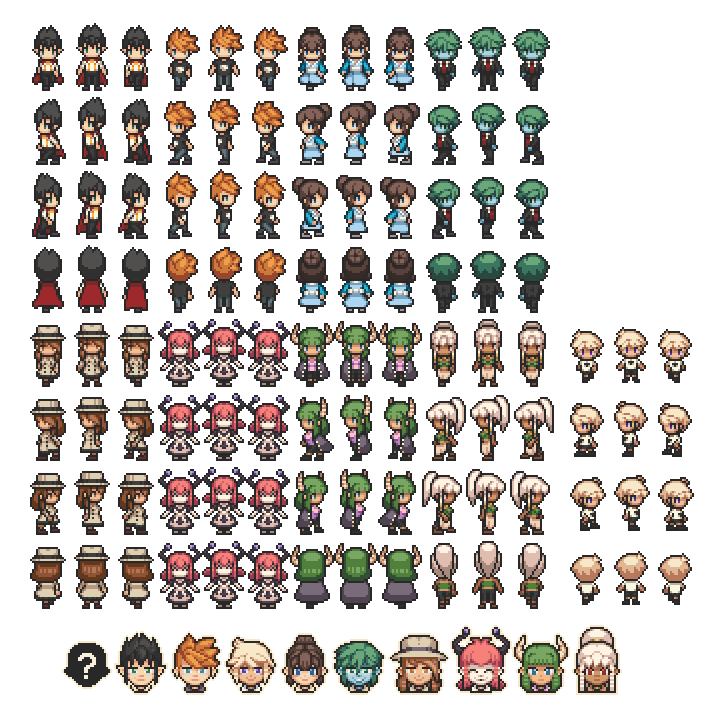
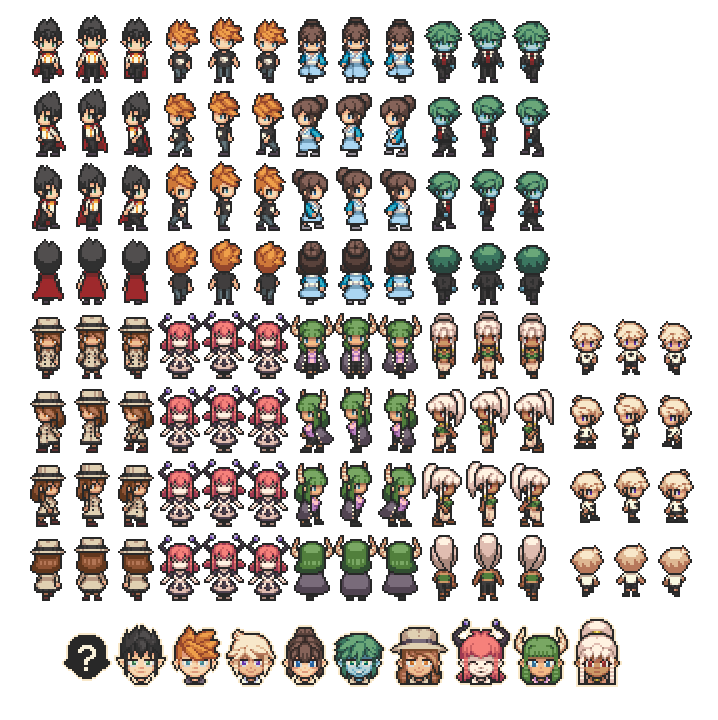
Начало обработки нажатий на мышь

diff --git a/world/World.java b/world/World.java
@@ -10,6 +10,10 @@ public class World extends JPanel
 {
     CopyOnWriteArrayList<Block> blocks;
     Player player;
+    Color c4ov = new Color(255,0,0,100);
+    
+    Color forDebug = new Color(0,255,0,100);
+    Color black = new Color(0,0,0,255);
     static int block_metric_x = -20;
     int block_metric_y;
     public static Block kostyl_dlya_setki = new Block (Block.GROUND,0,0);
@@ -23,7 +27,7 @@ public class World extends JPanel
     protected void paintComponent(Graphics g)
     {
 	super.paintComponent(g);
-       
+	// Отрисовка сетки
 	block_metric_x = (int) kostyl_dlya_setki.getPosition().getX();
 	if(block_metric_x<-20)
 	    kostyl_dlya_setki.setPosition(20,0);
@@ -44,6 +48,27 @@ public class World extends JPanel
 
 	for (int i = block_metric_x; i<=block_metric_x+540; i+=20)
 	    g.drawLine(i,0,i,520);
+	// Отрисовка области взаимодействия
+	//g.setColor(forDebug);                                                                                                         DEBUG!!!!!
+	//System.out.println(block_metric_y);
+	
+	//g.fillRect((int)player.getPosition().getX()+player.getWidth()*20,(int) player.getPosition().getY()-20,40,player.getHeight()*20+40);
+	
+	g.setColor(c4ov);
+
+	// Вправо
+	if(block_metric_x>=0)
+	g.fillRect((int)player.getPosition().getX()+player.getWidth()*20,(int) player.getPosition().getY(),40+block_metric_x,player.getHeight()*20);
+
+	if(block_metric_x<0)
+	g.fillRect((int)player.getPosition().getX()+player.getWidth()*20,(int) player.getPosition().getY(),40+20+block_metric_x,player.getHeight()*20);
+
+	//Влево
+	if(block_metric_x>0)
+	    g.fillRect((int)player.getPosition().getX()-40-(20-block_metric_x),(int) player.getPosition().getY(),(int) 100-block_metric_x,player.getHeight()*20);
+	
+	if(block_metric_x<=0)
+	    g.fillRect((int)player.getPosition().getX()-40+block_metric_x,(int) player.getPosition().getY(),(int) 80-block_metric_x,player.getHeight()*20);
 
 	for(Block b : blocks)
 	    {

diff --git a/world/players/Player.java b/world/players/Player.java
@@ -10,6 +10,8 @@ public class Player extends Entity
     
     BufferedImage[][] img;
     int fly;
+    int stepCount = 1;
+    int dir = 0;
     int jump;
     int vPrijke;
     int moveRight;
@@ -40,6 +42,7 @@ public class Player extends Entity
 						if (moveRight==1)
 						    {
 							int move=1;
+							dir = 1;
 							for (Block b : blocks)
 							    if ((int) (this.getPosition().getY())>=(int)(b.getPosition().getY())+20
 								||
@@ -58,6 +61,9 @@ public class Player extends Entity
 							    for (Block b : blocks)
 								{
 								    b.setPosition(-1,0);
+								    stepCount++;
+								    if(stepCount>=3)
+									stepCount=0;
 								}
 						    }
 						try
@@ -129,6 +135,7 @@ public class Player extends Entity
 					   {
 					       if (moveLeft==1)
 						   {
+						       dir = 0; 
 						       int move=1;
 						       for (Block b : blocks)
 							   if ((int) (this.getPosition().getY())>=(int)(b.getPosition().getY())+20
@@ -147,7 +154,10 @@ public class Player extends Entity
 						       if(move==1)
 							   for (Block b : blocks)
 							       {
+								   stepCount++;
 								   b.setPosition(1,0);
+								   if(stepCount>=3)
+								       stepCount=0;
 							       }
 						   }
 					       try
@@ -168,7 +178,7 @@ public class Player extends Entity
     }
     public BufferedImage getImage()
     {
-	return img[1][1];
+	return img[stepCount][dir];
     }
 
     public void setJump(int i)

diff --git a/controllers/ML.java b/controllers/ML.java
@@ -1,0 +1,37 @@
+package controllers;
+
+import java.awt.event.MouseEvent;
+import java.awt.event.MouseListener;
+import world.World;
+import world.players.Player;
+import world.Block;
+import java.util.concurrent.CopyOnWriteArrayList;
+
+public class ML implements MouseListener
+{
+    CopyOnWriteArrayList<Block> blocks;
+    Player player;
+    World world;
+    public ML(CopyOnWriteArrayList<Block> blocks, Player player, World world)
+    {
+	this.blocks=blocks;
+	this.player=player;
+	this.world = world;
+    }
+
+    public void mouseClicked(MouseEvent e) {
+    }
+ 
+    public void mouseEntered(MouseEvent e) {
+    }
+ 
+    public void mouseExited(MouseEvent e) {
+    }
+ 
+    public void mousePressed(MouseEvent e) {
+    }
+ 
+    public void mouseReleased(MouseEvent e) {
+    }
+
+}

diff --git a/world/ImgCol.java b/world/ImgCol.java
@@ -24,15 +24,17 @@ public class ImgCol {
 	    {
 		int i = 0;
 		player_full = ImageIO.read(new File("res/pers.png"));
-		for (int stolb=292;stolb<421;stolb+=43)
+		for (int stolb=292;stolb<421;stolb+=36)
 		    {
 			int j=0;
-			for (int stroka = 101; stroka<239; stroka+=69)
+			for (int stroka = 93; stroka<231; stroka+=64)
 			    {
-				player[i][j] = player_full.getSubimage(stolb, stroka, 43, 69);
+				player[i][j] = player_full.getSubimage(stolb, stroka, 36, 64);
 				j++;
+				stroka+=10;
 		    }
 			i++;
+			stolb+=8;
 		    }
 	    }
 	catch (IOException e)
